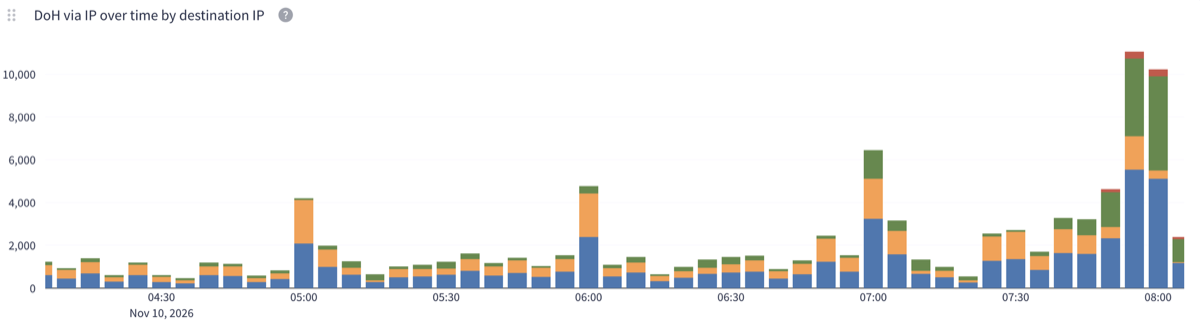
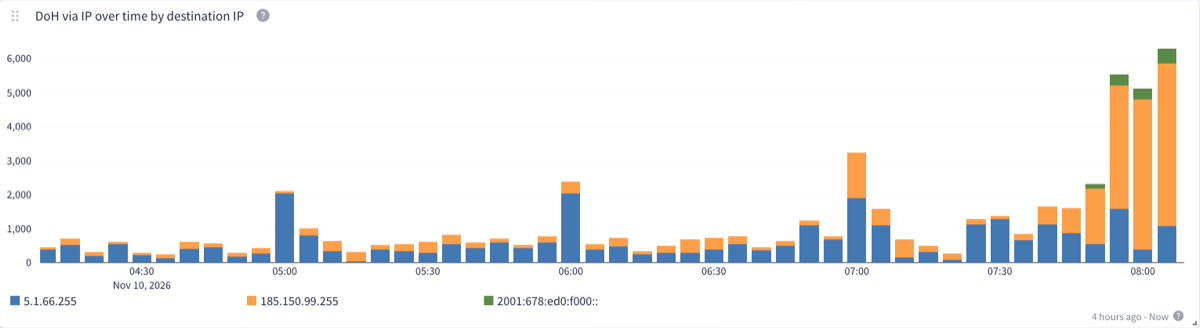
Blog: replace DoH chart with corrected per-IP counts

diff --git a/_posts/2026-11-10-verschluesseltes-dns-ip-zertifikat.md b/_posts/2026-11-10-verschluesseltes-dns-ip-zertifikat.md
@@ -49,7 +49,7 @@ Die Schritte 1 bis 3 bieten wir [schon seit Januar](/services/dns/2026/01/09/rfc
 
 ![Balkendiagramm: DoH-Anfragen direkt an unsere IP-Adressen in den letzten 4 Stunden](/assets/posts/2026-11-10-doh-via-ip-requests.png)
 
-*DoH-Anfragen, die direkt an unsere Resolver-IP-Adressen gehen (letzte 4 Stunden). Der Anstieg beginnt, nachdem das neue Zertifikat live gegangen ist. Orange: `5.1.66.255`, grün: `185.150.99.255`, rot: `2001:678:ed0:f000::`, blau: alle übrigen Anfragen. Gezählt werden alle Geräte, die uns über eine IP-Adresse ansprechen, nicht nur Geräte, die automatisch umgeschaltet haben.*
+*DoH-Anfragen, die direkt an unsere Resolver-IP-Adressen gehen (letzte 4 Stunden). Der Anstieg beginnt, nachdem das neue Zertifikat live gegangen ist. Blau: `5.1.66.255`, orange: `185.150.99.255`, grün: `2001:678:ed0:f000::`. Gezählt werden alle Geräte, die uns über eine IP-Adresse ansprechen, nicht nur Geräte, die automatisch umgeschaltet haben.*
 
 Im Freifunk-Netz geht es übrigens noch direkter: Dort sagt das Netz deinem Gerät schon beim Verbinden, dass verschlüsseltes DNS bereitsteht (DNR). Geräte, die das unterstützen, müssen also gar nicht erst nachfragen.
 
@@ -132,7 +132,7 @@ We have offered steps 1 to 3 [since January](/services/dns/2026/01/09/rfc9462-rf
 
 ![Bar chart: DoH requests sent directly to our IP addresses in the last 4 hours](/assets/posts/2026-11-10-doh-via-ip-requests.png)
 
-*DoH requests sent directly to our resolver IP addresses (last 4 hours). The rise starts after the new certificate went live. Orange: `5.1.66.255`, green: `185.150.99.255`, red: `2001:678:ed0:f000::`, blue: all other requests. The chart counts every client that uses an IP address, not only devices that switched automatically.*
+*DoH requests sent directly to our resolver IP addresses (last 4 hours). The rise starts after the new certificate went live. Blue: `5.1.66.255`, orange: `185.150.99.255`, green: `2001:678:ed0:f000::`. The chart counts every client that uses an IP address, not only devices that switched automatically.*
 
 In the Freifunk network it is even more direct: there, the network tells your device right when it connects that encrypted DNS is available (DNR). Devices that support this do not even need to ask.
 
@@ -215,7 +215,7 @@ Nous proposons les étapes 1 à 3 [depuis janvier](/services/dns/2026/01/09/rfc9
 
 ![Diagramme à barres : requêtes DoH envoyées directement à nos adresses IP au cours des 4 dernières heures](/assets/posts/2026-11-10-doh-via-ip-requests.png)
 
-*Requêtes DoH envoyées directement aux adresses IP de nos résolveurs (4 dernières heures). La hausse commence après la mise en service du nouveau certificat. Orange : `5.1.66.255`, vert : `185.150.99.255`, rouge : `2001:678:ed0:f000::`, bleu : toutes les autres requêtes. Le graphique compte tous les clients qui utilisent une adresse IP, pas seulement les appareils qui ont basculé automatiquement.*
+*Requêtes DoH envoyées directement aux adresses IP de nos résolveurs (4 dernières heures). La hausse commence après la mise en service du nouveau certificat. Bleu : `5.1.66.255`, orange : `185.150.99.255`, vert : `2001:678:ed0:f000::`. Le graphique compte tous les clients qui utilisent une adresse IP, pas seulement les appareils qui ont basculé automatiquement.*
 
 Dans le réseau Freifunk, c'est même encore plus direct : le réseau indique à votre appareil, dès la connexion, que le DNS chiffré est disponible (DNR). Les appareils compatibles n'ont même pas besoin de demander.
 
@@ -298,7 +298,7 @@ Ofrecemos los pasos 1 a 3 [desde enero](/services/dns/2026/01/09/rfc9462-rfc9463
 
 ![Gráfico de barras: solicitudes DoH enviadas directamente a nuestras direcciones IP en las últimas 4 horas](/assets/posts/2026-11-10-doh-via-ip-requests.png)
 
-*Solicitudes DoH enviadas directamente a las direcciones IP de nuestros resolvers (últimas 4 horas). El aumento empieza después de que el nuevo certificado entrara en servicio. Naranja: `5.1.66.255`, verde: `185.150.99.255`, rojo: `2001:678:ed0:f000::`, azul: el resto de solicitudes. El gráfico cuenta todos los clientes que usan una dirección IP, no solo los dispositivos que cambiaron automáticamente.*
+*Solicitudes DoH enviadas directamente a las direcciones IP de nuestros resolvers (últimas 4 horas). El aumento empieza después de que el nuevo certificado entrara en servicio. Azul: `5.1.66.255`, naranja: `185.150.99.255`, verde: `2001:678:ed0:f000::`. El gráfico cuenta todos los clientes que usan una dirección IP, no solo los dispositivos que cambiaron automáticamente.*
 
 En la red Freifunk es incluso más directo: allí la red le dice a tu dispositivo, nada más conectarse, que hay DNS cifrado disponible (DNR). Los dispositivos compatibles ni siquiera necesitan preguntar.
 
@@ -381,7 +381,7 @@ FFMUC         ─▶ пристрій  «Так: dot.ffmuc.net, також на
 
 ![Стовпчикова діаграма: запити DoH безпосередньо на наші IP-адреси за останні 4 години](/assets/posts/2026-11-10-doh-via-ip-requests.png)
 
-*Запити DoH, що надходять безпосередньо на IP-адреси наших резолверів (останні 4 години). Зростання починається після запуску нового сертифіката. Помаранчевий: `5.1.66.255`, зелений: `185.150.99.255`, червоний: `2001:678:ed0:f000::`, синій: усі інші запити. Діаграма враховує всіх клієнтів, які звертаються до нас за IP-адресою, а не лише пристрої, що перемкнулися автоматично.*
+*Запити DoH, що надходять безпосередньо на IP-адреси наших резолверів (останні 4 години). Зростання починається після запуску нового сертифіката. Синій: `5.1.66.255`, помаранчевий: `185.150.99.255`, зелений: `2001:678:ed0:f000::`. Діаграма враховує всіх клієнтів, які звертаються до нас за IP-адресою, а не лише пристрої, що перемкнулися автоматично.*
 
 У мережі Freifunk усе ще простіше: там мережа одразу під час підключення повідомляє вашому пристрою, що зашифрований DNS доступний (DNR). Пристроям, які це підтримують, навіть не потрібно запитувати.
 
